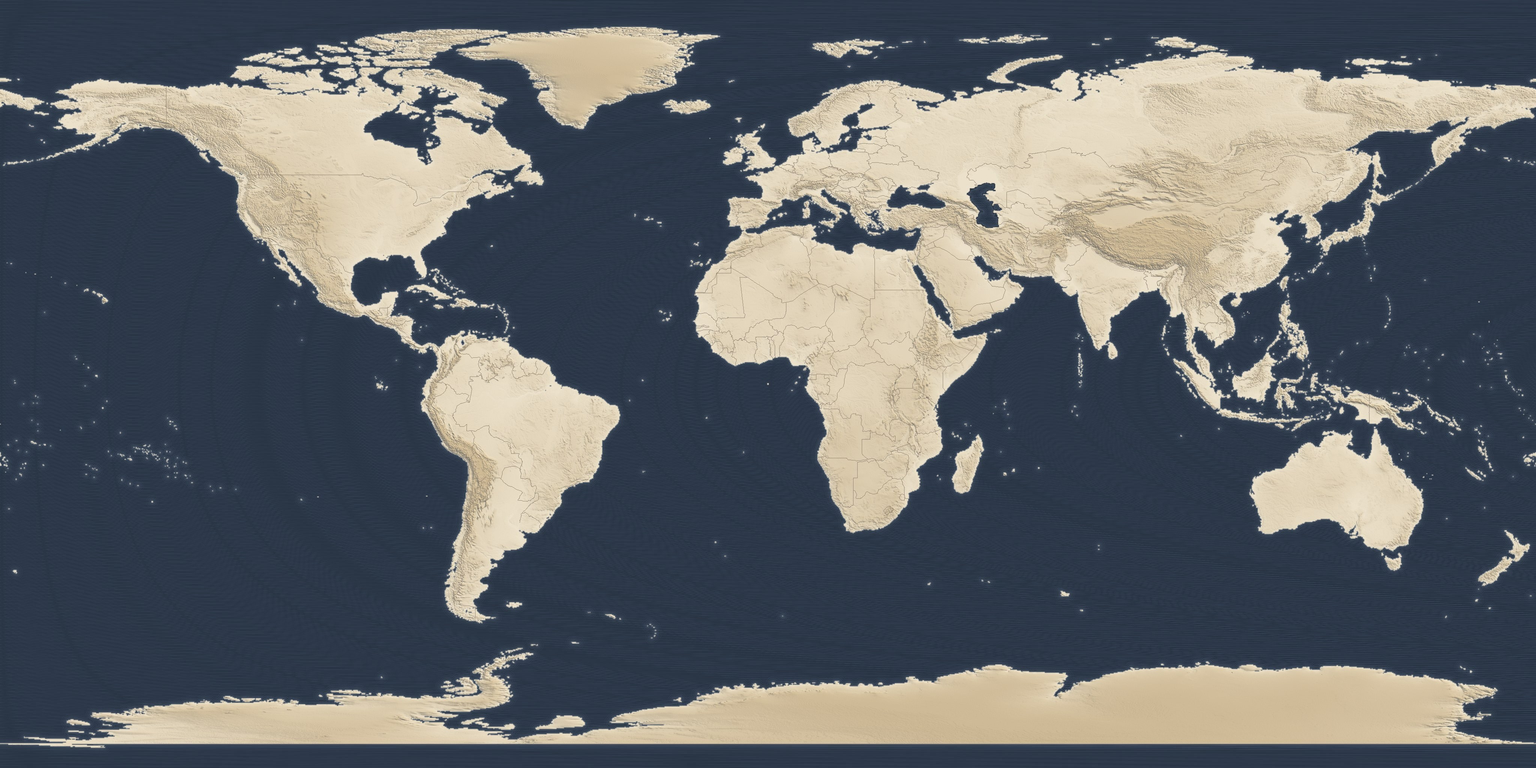
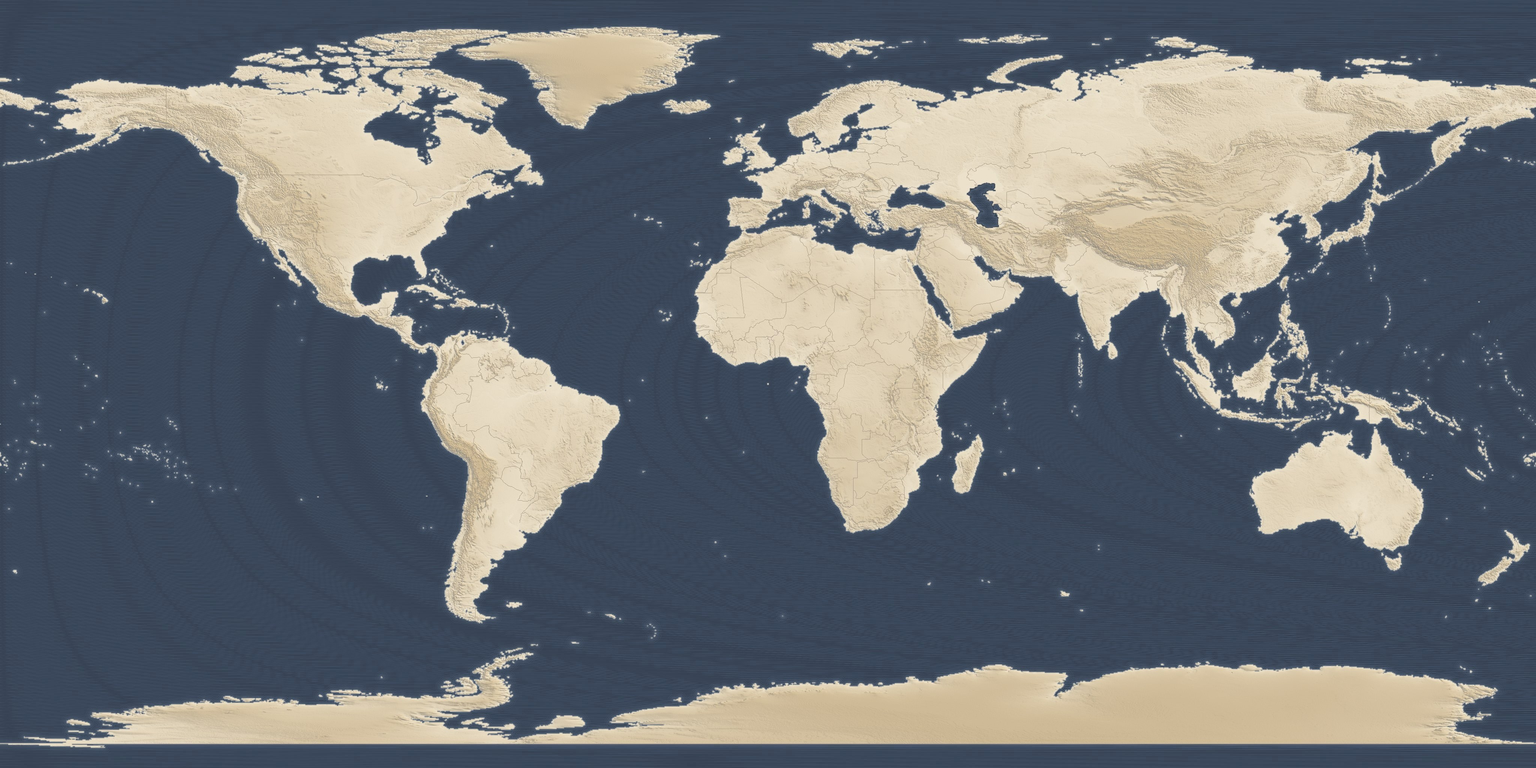
Grouped places show their own stamps stacked instead of a number badge; ocean a shade lighter
Claude-Session: https://claude.ai/code/session_01G9fDWLn1cnr3Dqr3EN3T2G

diff --git a/theme/assets/globe-passport.js b/theme/assets/globe-passport.js
@@ -97,6 +97,11 @@ function fitBox(d){
   return {hw: Math.max(lo, 0.3)};
 }
 function hasStamp(city){ try { return !!MYPASS[city]; } catch(e){ return false; } }
+/* A town's pin: its country's stamp shape and ink when we have them, the round stamp otherwise */
+function pinOf(c){
+  const real = window.WORSTAMP && WORSTAMP.pin(c.country, c.code);
+  return real || {ink: inkFor(c.city), svg: `<circle cx="15" cy="15" r="14.7" class="halo"/><circle cx="15" cy="15" r="13" class="o"/><circle cx="15" cy="15" r="9.6" class="i"/><text x="15" y="18.3" text-anchor="middle">${esc(c.code)}</text>`};
+}
 function labelEl(d){
   if(d.el) return d.el;
   const el = document.createElement("div"), s = document.createElement("span");
@@ -104,9 +109,9 @@ function labelEl(d){
   if(d.kind === "city"){
     const rot = (((d.c.lat * 7 + d.c.lon * 3) % 16 + 16) % 16 - 8).toFixed(0);
     // the pin takes the shape and ink of its country's real entry stamp, when we have it
-    const real = window.WORSTAMP && WORSTAMP.pin(d.c.country, d.c.code);
-    s.insertAdjacentHTML("afterbegin", `<svg class="pm" viewBox="0 0 30 30" style="transform:rotate(${rot}deg)">${real ? real.svg : `<circle cx="15" cy="15" r="14.7" class="halo"/><circle cx="15" cy="15" r="13" class="o"/><circle cx="15" cy="15" r="9.6" class="i"/><text x="15" y="18.3" text-anchor="middle">${esc(d.c.code)}</text>`}</svg>`);
-    const ink = real ? real.ink : inkFor(d.c.city); s.style.setProperty("--ink", ink); s.style.setProperty("--ink-tint", ink + "2e");
+    const pin = pinOf(d.c);
+    s.insertAdjacentHTML("afterbegin", `<svg class="pm" viewBox="0 0 30 30" style="transform:rotate(${rot}deg)">${pin.svg}</svg>`);
+    const ink = pin.ink; s.style.setProperty("--ink", ink); s.style.setProperty("--ink-tint", ink + "2e");
     if(hasStamp(d.c.city)) el.classList.add("got");
     s.insertAdjacentHTML("beforeend", '<b class="cnt"></b>');
   }
@@ -435,7 +440,17 @@ function tidyLabels(){
   for(const d of data) if(d.kind === "city" && d.el){
     const n = d.members ? d.members.length : 0, grp = n > 1;
     d.el.classList.toggle("grp", grp);
-    if(grp){ const b = d.el.querySelector(".cnt"); if(b) b.textContent = n; }
+    // places too close to separate: their own stamps, stacked one on another (up to three), no number badge
+    const key = grp ? d.members.map(m => m.c.city).join("|") : "";
+    if(d.stackKey !== key){
+      d.stackKey = key; const s = d.el.firstChild; let st = s.querySelector(".stk");
+      if(!grp){ if(st) st.remove(); }
+      else {
+        if(!st){ st = document.createElement("i"); st.className = "stk"; s.insertBefore(st, s.firstChild); }
+        st.innerHTML = d.members.filter(m => m !== d).slice(0, 2).map((m, i) => { const pn = pinOf(m.c), r = ((hash(m.c.city) % 15) - 7) + (i ? 9 : -6);
+          return `<svg class="pm" viewBox="0 0 30 30" style="--ink:${pn.ink};transform:translate(${i ? 9 : 5}px,${i ? -8 : -4}px) rotate(${r}deg)">${pn.svg}</svg>`; }).reverse().join("");
+      }
+    }
   }
   for(const d of heads){
     const nb = [d.sx + 16, d.sy - 8, d.sx - 13 + d.w, d.sy + 8];

diff --git a/theme/assets/globe.js b/theme/assets/globe.js
@@ -97,6 +97,11 @@ function fitBox(d){
   return {hw: Math.max(lo, 0.3)};
 }
 function hasStamp(city){ try { return !!MYPASS[city]; } catch(e){ return false; } }
+/* A town's pin: its country's stamp shape and ink when we have them, the round stamp otherwise */
+function pinOf(c){
+  const real = window.WORSTAMP && WORSTAMP.pin(c.country, c.code);
+  return real || {ink: inkFor(c.city), svg: `<circle cx="15" cy="15" r="14.7" class="halo"/><circle cx="15" cy="15" r="13" class="o"/><circle cx="15" cy="15" r="9.6" class="i"/><text x="15" y="18.3" text-anchor="middle">${esc(c.code)}</text>`};
+}
 function labelEl(d){
   if(d.el) return d.el;
   const el = document.createElement("div"), s = document.createElement("span");
@@ -104,9 +109,9 @@ function labelEl(d){
   if(d.kind === "city"){
     const rot = (((d.c.lat * 7 + d.c.lon * 3) % 16 + 16) % 16 - 8).toFixed(0);
     // the pin takes the shape and ink of its country's real entry stamp, when we have it
-    const real = window.WORSTAMP && WORSTAMP.pin(d.c.country, d.c.code);
-    s.insertAdjacentHTML("afterbegin", `<svg class="pm" viewBox="0 0 30 30" style="transform:rotate(${rot}deg)">${real ? real.svg : `<circle cx="15" cy="15" r="14.7" class="halo"/><circle cx="15" cy="15" r="13" class="o"/><circle cx="15" cy="15" r="9.6" class="i"/><text x="15" y="18.3" text-anchor="middle">${esc(d.c.code)}</text>`}</svg>`);
-    const ink = real ? real.ink : inkFor(d.c.city); s.style.setProperty("--ink", ink); s.style.setProperty("--ink-tint", ink + "2e");
+    const pin = pinOf(d.c);
+    s.insertAdjacentHTML("afterbegin", `<svg class="pm" viewBox="0 0 30 30" style="transform:rotate(${rot}deg)">${pin.svg}</svg>`);
+    const ink = pin.ink; s.style.setProperty("--ink", ink); s.style.setProperty("--ink-tint", ink + "2e");
     if(hasStamp(d.c.city)) el.classList.add("got");
     s.insertAdjacentHTML("beforeend", '<b class="cnt"></b>');
   }
@@ -371,7 +376,17 @@ function tidyLabels(){
   for(const d of data) if(d.kind === "city" && d.el){
     const n = d.members ? d.members.length : 0, grp = n > 1;
     d.el.classList.toggle("grp", grp);
-    if(grp){ const b = d.el.querySelector(".cnt"); if(b) b.textContent = n; }
+    // places too close to separate: their own stamps, stacked one on another (up to three), no number badge
+    const key = grp ? d.members.map(m => m.c.city).join("|") : "";
+    if(d.stackKey !== key){
+      d.stackKey = key; const s = d.el.firstChild; let st = s.querySelector(".stk");
+      if(!grp){ if(st) st.remove(); }
+      else {
+        if(!st){ st = document.createElement("i"); st.className = "stk"; s.insertBefore(st, s.firstChild); }
+        st.innerHTML = d.members.filter(m => m !== d).slice(0, 2).map((m, i) => { const pn = pinOf(m.c), r = ((hash(m.c.city) % 15) - 7) + (i ? 9 : -6);
+          return `<svg class="pm" viewBox="0 0 30 30" style="--ink:${pn.ink};transform:translate(${i ? 9 : 5}px,${i ? -8 : -4}px) rotate(${r}deg)">${pn.svg}</svg>`; }).reverse().join("");
+      }
+    }
   }
   for(const d of heads){
     const nb = [d.sx + 16, d.sy - 8, d.sx - 13 + d.w, d.sy + 8];

diff --git a/theme/assets/globe-passport.css b/theme/assets/globe-passport.css
@@ -482,10 +482,6 @@ h3.sec{margin:0 0 12px;font-family:var(--f-display);font-stretch:85%;font-weight
 
 /* A group of nearby places: one stamp with the number of places, stacked like a pile of stamps */
 .glabel.city .cnt{display:none}
-.glabel.city.grp .cnt{display:flex;position:absolute;left:0;top:0;width:34px;height:34px;align-items:center;justify-content:center;font:800 13px/1 "IBM Plex Mono",ui-monospace,monospace;color:#24324a;text-shadow:none;pointer-events:none}
-.glabel.city.grp span{--ink:#24324a!important;color:transparent!important;text-shadow:none!important;cursor:zoom-in}
-.glabel.city.grp .pm text{visibility:hidden}
-.glabel.city.grp .pm{filter:drop-shadow(3px -3px 0 #ece3d2) drop-shadow(0 0 .6px #24324a) drop-shadow(3px -3px 0 #e3d9c6) drop-shadow(0 1px 3px rgba(0,0,0,.55))}
 
 .glabel.city.noname span{color:transparent!important;text-shadow:none!important}
 
@@ -493,7 +489,6 @@ h3.sec{margin:0 0 12px;font-family:var(--f-display);font-stretch:85%;font-weight
 .glabel.city span{left:-13px;top:-13px}
 .glabel.city .pm{width:26px;height:26px}
 .glabel.city .pm text{font-size:8px}
-.glabel.city.grp .cnt{width:26px;height:26px;font-size:11px}
 
 /* A group is one clean stamp with the number of places, nothing behind it */
 .glabel.city.grp .pm{filter:drop-shadow(0 1px 3px rgba(0,0,0,.55))!important}
@@ -531,3 +526,8 @@ h3.sec{margin:0 0 12px;font-family:var(--f-display);font-stretch:85%;font-weight
 /* A country with no mixes yet: the guide leads, this one line sits under it */
 .empty-line{margin:4px 0 0;font-size:12.5px;color:var(--muted)}
 .empty-line a,.empty p a{color:var(--accent)}
+/* Places too close to separate: the stamps of the others sit stacked behind the front one */
+.glabel.city.grp span{color:transparent!important;text-shadow:none!important;cursor:zoom-in}
+.glabel.city .stk{position:absolute;left:0;top:0;width:0;height:0;pointer-events:none}
+.glabel.city .stk .pm{position:absolute;left:0;top:0;opacity:1}
+.glabel.city.grp > span > .pm{position:relative;z-index:1}

diff --git a/theme/assets/globe.css b/theme/assets/globe.css
@@ -479,10 +479,6 @@ h3.sec{margin:0 0 12px;font-family:var(--f-display);font-stretch:85%;font-weight
 
 /* A group of nearby places: one stamp with the number of places, stacked like a pile of stamps */
 .glabel.city .cnt{display:none}
-.glabel.city.grp .cnt{display:flex;position:absolute;left:0;top:0;width:34px;height:34px;align-items:center;justify-content:center;font:800 13px/1 "IBM Plex Mono",ui-monospace,monospace;color:#24324a;text-shadow:none;pointer-events:none}
-.glabel.city.grp span{--ink:#24324a!important;color:transparent!important;text-shadow:none!important;cursor:zoom-in}
-.glabel.city.grp .pm text{visibility:hidden}
-.glabel.city.grp .pm{filter:drop-shadow(3px -3px 0 #ece3d2) drop-shadow(0 0 .6px #24324a) drop-shadow(3px -3px 0 #e3d9c6) drop-shadow(0 1px 3px rgba(0,0,0,.55))}
 
 .glabel.city.noname span{color:transparent!important;text-shadow:none!important}
 
@@ -490,7 +486,6 @@ h3.sec{margin:0 0 12px;font-family:var(--f-display);font-stretch:85%;font-weight
 .glabel.city span{left:-13px;top:-13px}
 .glabel.city .pm{width:26px;height:26px}
 .glabel.city .pm text{font-size:8px}
-.glabel.city.grp .cnt{width:26px;height:26px;font-size:11px}
 
 /* A group is one clean stamp with the number of places, nothing behind it */
 .glabel.city.grp .pm{filter:drop-shadow(0 1px 3px rgba(0,0,0,.55))!important}
@@ -529,3 +524,8 @@ h3.sec{margin:0 0 12px;font-family:var(--f-display);font-stretch:85%;font-weight
 /* A country with no mixes yet: the guide leads, this one line sits under it */
 .empty-line{margin:4px 0 0;font-size:12.5px;color:var(--muted)}
 .empty-line a,.empty p a{color:var(--accent)}
+/* Places too close to separate: the stamps of the others sit stacked behind the front one */
+.glabel.city.grp span{color:transparent!important;text-shadow:none!important;cursor:zoom-in}
+.glabel.city .stk{position:absolute;left:0;top:0;width:0;height:0;pointer-events:none}
+.glabel.city .stk .pm{position:absolute;left:0;top:0;opacity:1}
+.glabel.city.grp > span > .pm{position:relative;z-index:1}

diff --git a/theme/style.css b/theme/style.css
@@ -4,7 +4,7 @@ Theme URI:    https://worldonrotation.com/
 Author:       Rhythm Passport
 Author URI:   https://rhythmpassport.com/
 Description:  The World on Rotation globe and its passport-style pages: places, countries, mixes and playlists, selectors. Needs the World on Rotation plugin for its content.
-Version:      1.3.31
+Version:      1.3.32
 Requires at least: 6.4
 Requires PHP: 7.4
 License:      GPL-2.0-or-later

diff --git a/world-on-rotation.php b/world-on-rotation.php
@@ -2,7 +2,7 @@
 /**
  * Plugin Name:       World on Rotation
  * Description:       The content behind the World on Rotation globe: mixes and playlists, selectors, places and countries, with their music guides. Includes the Selector role and a one-click import of the launch content.
- * Version:           1.6.38
+ * Version:           1.6.39
  * Requires at least: 6.4
  * Requires PHP:      7.4
  * Author:            Rhythm Passport
@@ -15,7 +15,7 @@ if ( ! defined( 'ABSPATH' ) ) {
 	exit;
 }
 
-define( 'WOR_VERSION', '1.6.38' );
+define( 'WOR_VERSION', '1.6.39' );
 define( 'WOR_DIR', plugin_dir_path( __FILE__ ) );
 define( 'WOR_URL', plugin_dir_url( __FILE__ ) );
 
